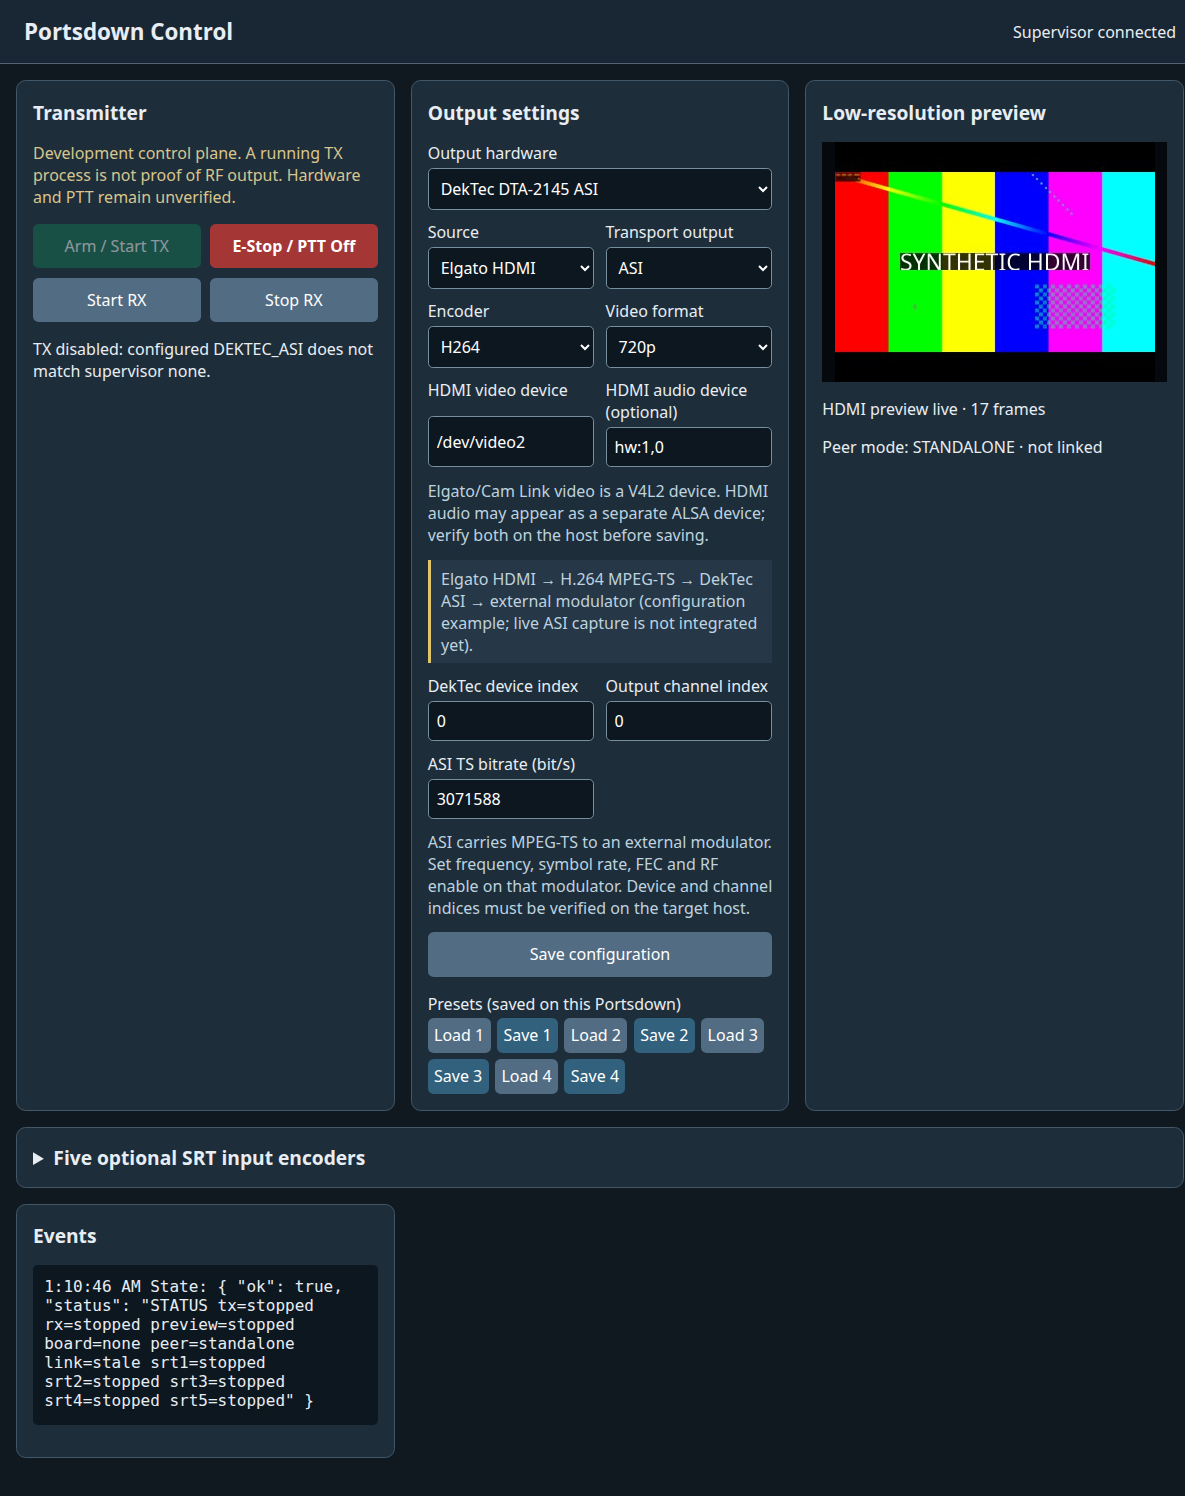
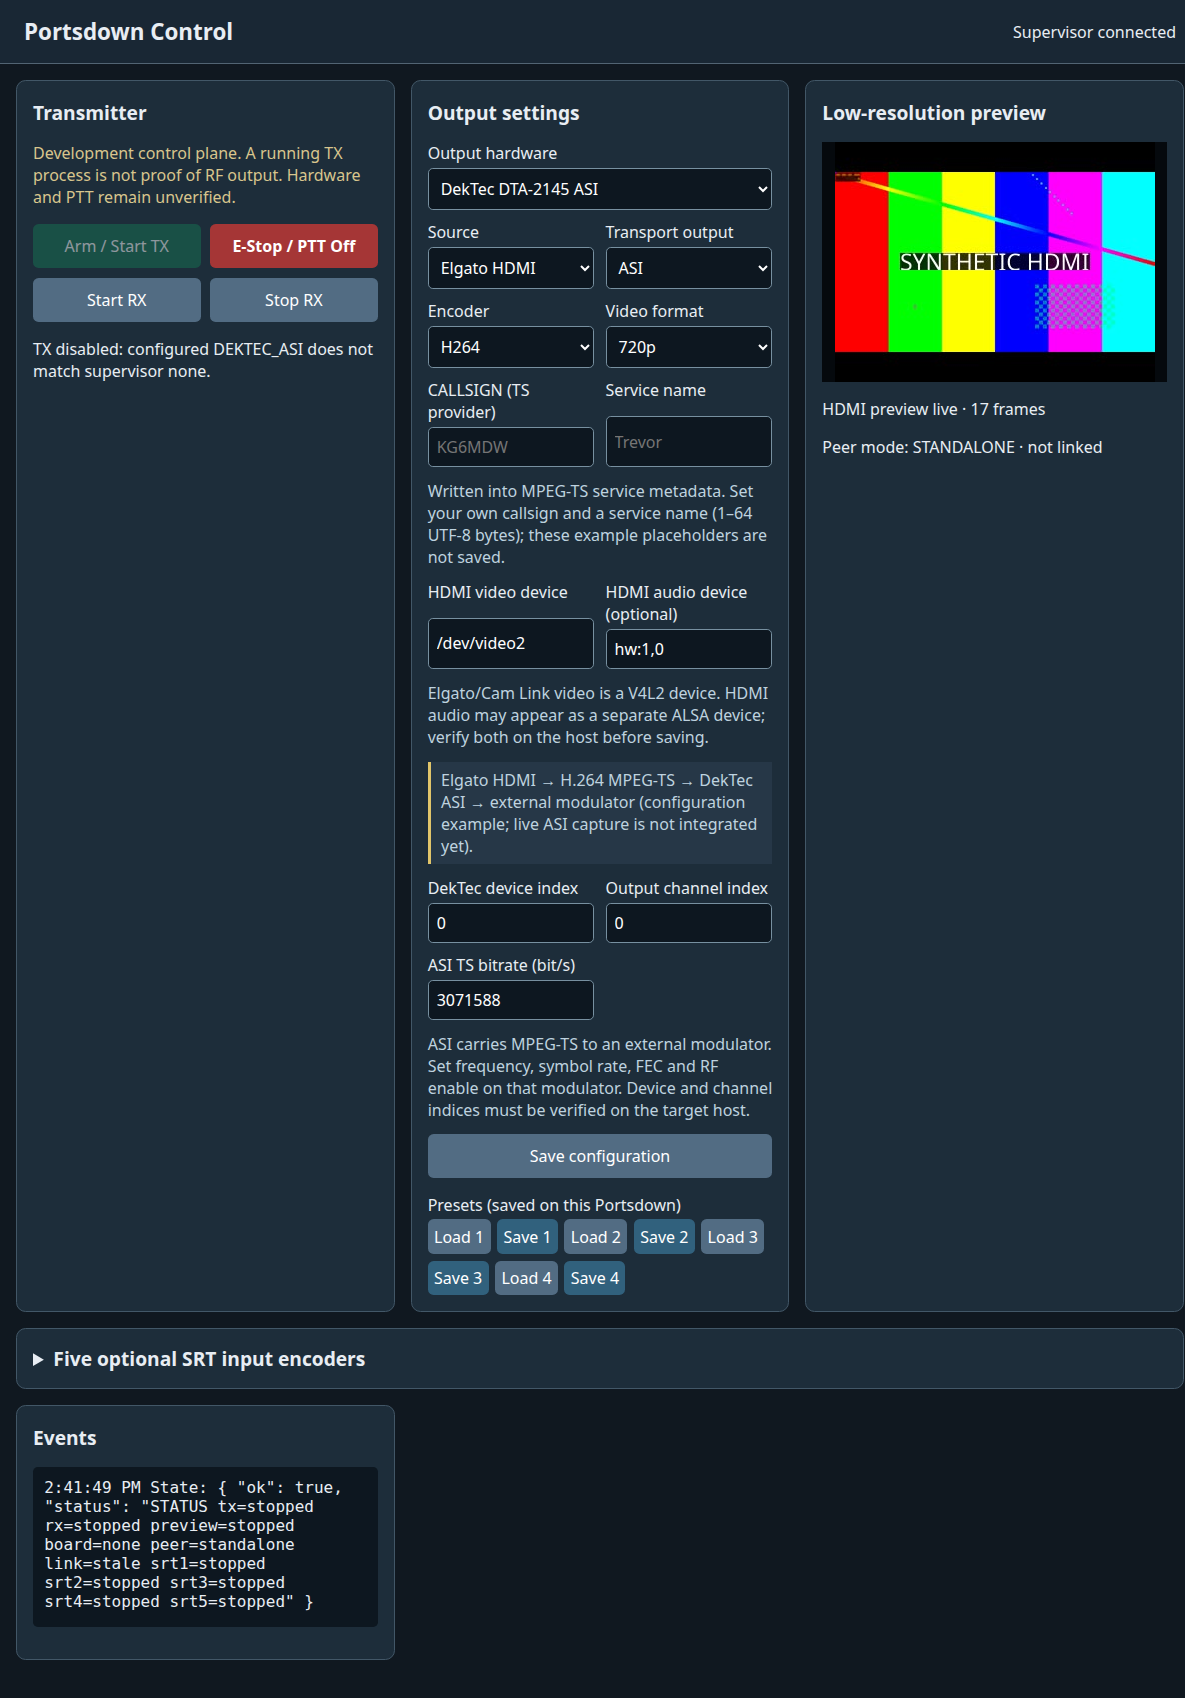
Expose TS service metadata in web control and enforce ASI file match

Changed region(s): [[0.0, 0.0, 0.9992, 0.984]]

diff --git a/www/app.js b/www/app.js
@@ -1,6 +1,6 @@
 'use strict';
 const $ = id => document.getElementById(id);
-const fields = ['modeoutput','modeinput','modulation','encoding','format','freqoutput','symbolrate','fec','explevel','plutopwr','limegain','asi_device','asi_channel','asi_bitrate','expresshdmidevice','expressaudiodevice'];
+const fields = ['modeoutput','modeinput','modulation','encoding','format','freqoutput','symbolrate','fec','explevel','plutopwr','limegain','asi_device','asi_channel','asi_bitrate','expresshdmidevice','expressaudiodevice','call','service_name'];
 const fecS = ['12','23','34','56','78'];
 const fecS2 = ['14','13','12','35','23','34','56','89','91'];
 let capabilities = {}, current = {};
@@ -78,6 +78,8 @@ function fill(config, updateCurrent=true) {
   choices('fec', (config.modulation==='ASI' ? [] : config.modulation==='S2QPSK' ? fecS2 : fecS).map(v => [v,v]), config.fec);
   for (const id of fields.filter(x => !['modeoutput','modeinput','modulation','encoding','format','fec'].includes(x)))
     $(id).value = config[id] ?? '';
+  if (!/^[A-Z0-9/]{3,20}$/.test($('call').value) || !/[0-9]/.test($('call').value))
+    $('call').value = ''; // Old generic values such as BATC are not a station callsign.
   refreshBoardFields();
 }
 async function reload() {
@@ -153,10 +155,19 @@ for (const [id,path] of Object.entries({
 })) $(id).addEventListener('click',()=>command(path));
 $('modeoutput').addEventListener('change',refreshMode);
 $('modeinput').addEventListener('change',refreshSourceFields);
+$('call').addEventListener('input', () => { $('call').value = $('call').value.toUpperCase(); });
+$('service_name').addEventListener('input', () => {
+  $('service_name').setCustomValidity(new TextEncoder().encode($('service_name').value).length > 64
+    ? 'Service name must be at most 64 UTF-8 bytes' : '');
+});
 $('encoding').addEventListener('change',refreshSourceFields);
 $('modulation').addEventListener('change',refreshFec);
 $('settings').addEventListener('submit',async event => {
   event.preventDefault();
+  $('call').value = $('call').value.trim().toUpperCase();
+  $('service_name').value = $('service_name').value.trim();
+  $('service_name').dispatchEvent(new Event('input'));
+  if (!$('settings').reportValidity()) return;
   const changed = Object.fromEntries(fields.map(id => [id,$(id).value]).filter(([id,value])=>(value!=='' || id==='expressaudiodevice') && value!==(current[id]??'')));
   try { await api('/api/config','POST',changed); log('Configuration saved'); await reload(); }
   catch (error) { log(`Save failed: ${error.message}`); }

diff --git a/www/index.html b/www/index.html
@@ -29,6 +29,9 @@
         <label><span id="modulation-label">Modulation</span><select id="modulation"></select></label>
         <label>Encoder<select id="encoding"></select></label>
         <label>Video format<select id="format"></select></label>
+        <label>CALLSIGN (TS provider)<input id="call" type="text" minlength="3" maxlength="20" pattern="[A-Z0-9/]*[0-9][A-Z0-9/]*" placeholder="KG6MDW" autocapitalize="characters" autocomplete="off" required></label>
+        <label>Service name<input id="service_name" type="text" maxlength="64" placeholder="Trevor" autocomplete="off" required></label>
+        <p class="hdmi-note">Written into MPEG-TS service metadata. Set your own callsign and a service name (1–64 UTF-8 bytes); these example placeholders are not saved.</p>
         <label class="hdmi-only" hidden>HDMI video device<input id="expresshdmidevice" type="text" placeholder="/dev/videoN" autocomplete="off"></label>
         <label class="hdmi-only" hidden>HDMI audio device (optional)<input id="expressaudiodevice" type="text" placeholder="hw:1,0" autocomplete="off"></label>
         <p class="hdmi-only hdmi-note" hidden>Elgato/Cam Link video is a V4L2 device. HDMI audio may appear as a separate ALSA device; verify both on the host before saving.</p>

diff --git a/tests/test_headless_control.py b/tests/test_headless_control.py
@@ -152,7 +152,7 @@ class UcodeTest(unittest.TestCase):
         self.addCleanup(self.tmp.cleanup)
         self.path = Path(self.tmp.name)
         self.config = self.path / "config.txt"
-        self.config.write_text("modeoutput=DATVEXPRESS\nmodulation=S2QPSK\nfreqoutput=437\nsymbolrate=333\nfec=12\n")
+        self.config.write_text("modeoutput=DATVEXPRESS\nmodulation=S2QPSK\nfreqoutput=437\nsymbolrate=333\nfec=12\ncall=KG6MDW\nservice_name=Trevor\n")
         self.sock = self.path / "run" / "tx.sock"
         with socket.socket() as probe:
             probe.bind(("127.0.0.1", 0)); self.port = probe.getsockname()[1]
@@ -165,6 +165,7 @@ class UcodeTest(unittest.TestCase):
         with socket.socket() as probe:
             probe.bind(("127.0.0.1", 0)); self.srt_preview_port = probe.getsockname()[1]
         env = os.environ | {"PORTSDOWN_RUN_DIR": str(self.sock.parent),
+                            "PORTSDOWN_DIR": str(ROOT), "PORTSDOWN_CONFIG": str(self.config),
                             "PORTSDOWN_SRT_EXEC": str(CONTROL / "srt-slot.sh"),
                             "PORTSDOWN_SRT_PORT_BASE": str(self.srt_port),
                             "PORTSDOWN_SRT_TS_PORT_BASE": str(self.ts_port),
@@ -223,6 +224,22 @@ class UcodeTest(unittest.TestCase):
         status, body = self.request("POST", "/api/config", {"modeoutput": "DVB-S2X"})
         self.assertEqual(status, 400)
         self.assertNotIn("DVB-S2X", self.config.read_text())
+
+    def test_service_metadata_validation_and_persistence(self):
+        for changes in ({"call": "BATC"}, {"call": "kg6mdw"},
+                        {"service_name": " "}, {"service_name": "A" * 65},
+                        {"service_name": "é" * 33},
+                        {"service_name": "bad\tname"}):
+            status, body = self.request("POST", "/api/config", changes)
+            self.assertEqual(status, 400, body)
+        status, body = self.request("POST", "/api/config",
+                                    {"call": "K6SOE", "service_name": "DATV test 720p"})
+        self.assertEqual(status, 200, body)
+        saved = json.loads(self.request("GET", "/api/config")[1])["config"]
+        self.assertEqual((saved["call"], saved["service_name"]),
+                         ("K6SOE", "DATV test 720p"))
+        self.assertEqual(self.request("POST", "/api/config",
+                                      {"service_name": "é" * 32})[0], 200)
 
     def test_asi_settings_do_not_claim_rf_modulation(self):
         settings = {"modeoutput": "DEKTEC_ASI", "modulation": "ASI",
@@ -381,6 +398,11 @@ class UcodeTest(unittest.TestCase):
                 receivers.append(receiver)
                 status, body = self.request("POST", f"/api/srt/{slot}/enable")
                 self.assertEqual(status, 200, body)
+            # Updating saved metadata restarts enabled listeners before
+            # callers arrive; otherwise they would retain the old TS labels.
+            status, body = self.request("POST", "/api/config",
+                                        {"service_name": "Trevor Live"})
+            self.assertEqual(status, 200, body)
             for slot, raster, fps in sources:
                 senders.append(subprocess.Popen([
                     "ffmpeg", "-hide_banner", "-nostdin", "-loglevel", "error", "-re",
@@ -404,6 +426,13 @@ class UcodeTest(unittest.TestCase):
                 self.assertEqual(json.loads(probe.stdout)["streams"][0],
                                  {"codec_name": "h264", "width": width, "height": height,
                                   "r_frame_rate": f"{fps}/1"}, raster)
+                service = subprocess.run([
+                    "ffprobe", "-v", "error", "-show_entries",
+                    "program_tags=service_provider,service_name", "-of", "json", str(capture),
+                ], capture_output=True, text=True, timeout=10, check=True)
+                tags = json.loads(service.stdout)["programs"][0]["tags"]
+                self.assertEqual(tags["service_provider"], "KG6MDW")
+                self.assertEqual(tags["service_name"], "Trevor Live")
             slots = json.loads(self.request("GET", "/api/srt")[1])["slots"]
             self.assertTrue(all(slot["live"] for slot in slots[:3]))
         finally:

diff --git a/tests/test_ts_service_metadata.py b/tests/test_ts_service_metadata.py
@@ -1,0 +1,76 @@
+#!/usr/bin/env python3
+"""Offline MPEG-TS metadata and ASI pass-through gate; never opens hardware."""
+
+import os
+from pathlib import Path
+import subprocess
+import sys
+import tempfile
+import unittest
+
+
+ROOT = Path(__file__).resolve().parents[1]
+sys.path.insert(0, str(ROOT / "scripts"))
+from ts_service_metadata import values  # noqa: E402
+
+
+class ServiceMetadataTest(unittest.TestCase):
+    def test_validation(self):
+        self.assertEqual(values({"call": "KG6MDW", "service_name": "Trevor"}),
+                         ("KG6MDW", "Trevor"))
+        for cfg in ({"call": "BATC", "service_name": "Trevor"},
+                    {"call": "kg6mdw", "service_name": "Trevor"},
+                    {"call": "KG6MDW", "service_name": " "},
+                    {"call": "KG6MDW", "service_name": "x" * 65}):
+            with self.assertRaises(ValueError):
+                values(cfg)
+
+    def test_asi_file_requires_matching_saved_service_metadata(self):
+        with tempfile.TemporaryDirectory(prefix="portsdown-asi-metadata-") as directory:
+            temp = Path(directory)
+            stream = temp / "source.ts"
+            subprocess.run([
+                "ffmpeg", "-hide_banner", "-loglevel", "error", "-f", "lavfi",
+                "-i", "testsrc2=size=320x240:rate=10", "-t", "1", "-c:v",
+                "mpeg2video", "-metadata", "service_provider=KG6MDW",
+                "-metadata", "service_name=Trevor", "-muxrate", "1000000",
+                "-f", "mpegts", str(stream),
+            ], check=True, capture_output=True, timeout=15)
+            config = temp / "config"
+            config.write_text("modeoutput=DEKTEC_ASI\nmodulation=ASI\nasi_device=0\n"
+                              "asi_channel=0\nasi_bitrate=1000000\ncall=KG6MDW\n"
+                              "service_name=Trevor\n")
+            fake_tsp = temp / "tsp"
+            fake_tsp.write_text('#!/bin/sh\nprintf "%s\\n" "$@" > "$TSP_ARGS_OUT"\n')
+            fake_tsp.chmod(0o755)
+            args_file = temp / "args"
+            env = os.environ | {
+                "PORTSDOWN_CONFIG": str(config), "PORTSDOWN_ASI_TS_FILE": str(stream),
+                "PORTSDOWN_BOARD": "dektec_asi", "TSP_ARGS_OUT": str(args_file),
+                "PATH": str(temp) + os.pathsep + os.environ["PATH"],
+            }
+            launcher = ROOT / "control/dektec-asi-file.sh"
+            good = subprocess.run([str(launcher)], env=env, capture_output=True,
+                                  text=True, timeout=15)
+            self.assertEqual(good.returncode, 0, good.stderr)
+            self.assertIn("dektec", args_file.read_text())
+            args_file.unlink()
+            config.write_text(config.read_text().replace("service_name=Trevor",
+                                                         "service_name=Different"))
+            bad = subprocess.run([str(launcher)], env=env, capture_output=True,
+                                 text=True, timeout=15)
+            self.assertNotEqual(bad.returncode, 0)
+            self.assertIn("metadata differs", bad.stderr)
+            self.assertFalse(args_file.exists(), "mismatch must not start ASI")
+            config.write_text(config.read_text().replace("service_name=Different",
+                                                         "service_name=Trevor").replace(
+                                                             "call=KG6MDW", "call=K6SOE"))
+            bad = subprocess.run([str(launcher)], env=env, capture_output=True,
+                                 text=True, timeout=15)
+            self.assertNotEqual(bad.returncode, 0)
+            self.assertIn("metadata differs", bad.stderr)
+            self.assertFalse(args_file.exists(), "provider mismatch must not start ASI")
+
+
+if __name__ == "__main__":
+    unittest.main()

diff --git a/scripts/srt_interlocked_tx.py b/scripts/srt_interlocked_tx.py
@@ -14,6 +14,7 @@ import signal
 import subprocess
 import sys
 import time
+from ts_service_metadata import ffmpeg_args as service_metadata_args
 
 
 PACKET = 188
@@ -107,6 +108,7 @@ def main():
     args = parser.parse_args()
     try:
         cfg = config(args.config)
+        metadata = service_metadata_args(cfg)
         args.port = args.port if args.port is not None else int(cfg.get("srtinport", "9000"))
         if not 1024 <= args.port <= 65535:
             parser.error("invalid SRT port")
@@ -163,7 +165,8 @@ def main():
               "-b:v", str(video_rate), "-maxrate:v", str(video_rate),
               "-bufsize:v", str(video_rate // 2), "-c:a", "aac", "-b:a", "48000",
               "-ac", "1", "-ar", "48000", "-mpegts_pmt_start_pid", str(PMT_PID),
-              "-streamid", f"0:{VIDEO_PID}", "-muxrate", str(muxrate), "-f", "mpegts", "pipe:1"]
+              "-streamid", f"0:{VIDEO_PID}", *metadata,
+              "-muxrate", str(muxrate), "-f", "mpegts", "pipe:1"]
     backend = [str(args.backend), "--input", "-", "--symbol-rate", str(symbol_rate), "--fec", fec]
     if not args.dry_run:
         backend += ["--tx", "--frequency", str(frequency)]

diff --git a/scripts/express_capture_tx.py b/scripts/express_capture_tx.py
@@ -18,6 +18,7 @@ import sys
 import time
 
 from srt_interlocked_tx import FEC as S2_FEC, config, release_legacy_express, stop_child, write_packet
+from ts_service_metadata import values as service_metadata_values
 
 STOP = False
 PACKET = 188
@@ -30,6 +31,7 @@ def request_stop(_signum, _frame):
 
 
 def capture_command(cfg, helper, muxrate, video_rate):
+    service_provider, service_name = service_metadata_values(cfg)
     mode = cfg.get("modeinput", "")
     fmt = cfg.get("format", "4:3")
     size = {"720p": "1280x720", "1080p": "1920x1080", "16:9": "854x480"}.get(fmt, "720x480")
@@ -40,7 +42,7 @@ def capture_command(cfg, helper, muxrate, video_rate):
             "--video-pid", cfg.get("pidvideo", "256"),
             "--audio-pid", cfg.get("pidaudio", "257"),
             "--service-id", cfg.get("serviceid", "1"),
-            "--service-name", cfg.get("call", "Portsdown"),
+            "--service-provider", service_provider, "--service-name", service_name,
             "--video-encoder", cfg.get("h264encoder", "auto")]
 
     if mode.startswith("CAM"):

diff --git a/tests/test_h264_ts_ffmpeg.py b/tests/test_h264_ts_ffmpeg.py
@@ -25,7 +25,8 @@ class H264TsTest(unittest.TestCase):
             str(ENCODER), "--source", "testsrc", "--output", str(output),
             "--standard", standard, "--video-bitrate", "800000",
             "--muxrate", "1200000", "--duration", "2",
-            "--pmt-pid", "4095", "--service-name", "NTSC Test",
+            "--pmt-pid", "4095", "--service-provider", "KG6MDW",
+            "--service-name", "NTSC Test",
         ]
         if audio:
             args += ["--audio-device", "testtone", "--audio-bitrate", "48000"]
@@ -83,6 +84,7 @@ class H264TsTest(unittest.TestCase):
         self.assertEqual(program["pmt_pid"], 4095)
         self.assertEqual(program["pcr_pid"], 4096)
         self.assertEqual(program["tags"]["service_name"], "NTSC Test")
+        self.assertEqual(program["tags"]["service_provider"], "KG6MDW")
         video, audio = program["streams"]
         self.assertEqual((video["codec_name"], video["width"], video["height"]),
                          ("h264", 720, 480))

diff --git a/scripts/ipts_interlocked_tx.py b/scripts/ipts_interlocked_tx.py
@@ -21,6 +21,7 @@ import time
 from express_capture_tx import S_FEC, dvbs_server, ptt_receive
 from ipts_preview_return import start_preview
 from srt_interlocked_tx import FEC as S2_FEC, config, release_legacy_express, stop_child, write_packet
+from ts_service_metadata import ffmpeg_args as service_metadata_args
 
 PACKET = 188
 STOP = False
@@ -70,6 +71,7 @@ def input_command(cfg, muxrate, pmt_pid, video_pid, input_port=None):
         command += ["-c", "copy"]
     command += [
                "-mpegts_pmt_start_pid", str(pmt_pid), "-streamid", f"0:{video_pid}",
+               *service_metadata_args(cfg),
                "-muxrate", str(muxrate), "-muxdelay", "0", "-muxpreload", "0",
                "-f", "mpegts", "pipe:1"]
     return command, transport, port

diff --git a/scripts/ts_service_metadata.py b/scripts/ts_service_metadata.py
@@ -1,0 +1,19 @@
+"""Validate service metadata shared by the modern MPEG-TS producers."""
+
+import re
+
+
+def values(cfg):
+    call = cfg.get("call", "")
+    name = cfg.get("service_name", "")
+    if not re.fullmatch(r"[A-Z0-9/]{3,20}", call) or not re.search(r"[0-9]", call):
+        raise ValueError("configure a CALLSIGN (3-20 uppercase letters, digits or /)")
+    if not name.strip() or len(name.encode("utf-8")) > 64 or not name.isprintable():
+        raise ValueError("configure a printable service_name (1-64 UTF-8 bytes)")
+    return call, name
+
+
+def ffmpeg_args(cfg):
+    call, name = values(cfg)
+    return ["-metadata", f"service_provider={call}",
+            "-metadata", f"service_name={name}"]

diff --git a/tests/test_ipts_interlock_offline.py b/tests/test_ipts_interlock_offline.py
@@ -35,6 +35,7 @@ class IPTSInterlockOfflineTest(unittest.TestCase):
             f"modulation={'S2QPSK' if s2 else 'DVB-S'}\n"
             f"fec={'12' if s2 else '1'}\n"
             "symbolrate=1200\nfreqoutput=437\npidpmt=4095\npidvideo=256\n"
+            "call=KG6MDW\nservice_name=Trevor\n"
             f"udpinport={self.port}\niptransport={transport}\n"
         )
         return path

diff --git a/doc/headless-ucode-control.md b/doc/headless-ucode-control.md
@@ -25,7 +25,8 @@ enumerated hardware. SRT port numbers shown are temporary test ports.
 This **configuration example** selects Elgato HDMI video (`/dev/video2`),
 optional ALSA audio (`hw:1,0`), H.264 at 720p, and DekTec ASI output at
 3,071,588 bit/s. The device names and indices are illustrative, not detected
-on the current host. The screenshot's 320×240 preview is a **synthetic test
+on the current host. `KG6MDW` and `Trevor` are unsaved placeholder examples
+in the screenshot; the operator must enter their own values. The screenshot's 320×240 preview is a **synthetic test
 feed**, not an Elgato capture or physical ASI test. When HDMI is selected,
 the GUI shows the separate V4L2 and ALSA fields and live preview when frames
 arrive; it falls back to **NO HDMI INPUT** when they stop. The five SRT slots
@@ -58,6 +59,17 @@ capture, audio, and RF remain unverified.
 - `www/`: no-framework responsive dashboard, four server-side presets,
   320×240 preview with a **NO IP INPUT** placeholder, and an E-Stop button.
   An optional remote-slave preview URL can be configured separately.
+- The Output settings form asks for **CALLSIGN** and **Service name**. The
+  callsign becomes MPEG-TS `service_provider`; the service name becomes
+  MPEG-TS `service_name`. `KG6MDW` / `Trevor` are example placeholders, **not**
+  saved defaults. Enter the actual transmitting station's callsign (3–20
+  uppercase letters, digits, or `/`, with a digit) and a printable service
+  name of 1–64 UTF-8 bytes. These settings are saved in
+  `portsdown_config.txt`, included in presets and peer configuration, and
+  passed to FFmpeg on the current SRT/IPTS and local Express TS-producing
+  paths. An older config without both values must be completed in the GUI
+  before those new paths will generate TS. This metadata is not itself a
+  substitute for any required on-air station identification.
 - Five independently enabled SRT source slots (`control/srt-slot.sh`) each
   accept MPEG-TS over SRT, encode live video/audio to a local source-resolution
   H.264/AAC MPEG-TS output, and provide a 320×240 aspect-preserving MJPEG
@@ -73,6 +85,12 @@ capture, audio, and RF remain unverified.
   live encoder or an RF safety interlock. `PORTSDOWN_BOARD=dektec_asi` must
   match `modeoutput=DEKTEC_ASI`, and the supervisor still requires an
   independently verified safe-off hook before it will start TX.
+  The ASI file launcher passes existing TS packets through unchanged. It
+  checks every detected program's `service_provider` and `service_name`
+  against the saved GUI settings and **refuses playout on a mismatch**;
+  changing the GUI fields does not rewrite an existing file. Generate or
+  remultiplex the file with matching metadata first. Offline validation uses
+  a fake `tsp`, not a DekTec card.
 - `systemd/`: uninstalled service templates. `portsdown-tx-super.service`
   uses `ExecStopPost` as a second attempt to invoke the safe-off hook if the
   supervisor dies while systemd is alive.
@@ -109,6 +127,10 @@ an explicit private-interface address.
   drive all their source/encoder/RF paths. Existing Python interlock scripts
   are still in the legacy transmitter; this branch has no Python/Node runtime
   in the **new** control plane, but is not yet a Python-free Portsdown tree.
+  Legacy `avc2ts` and unchanged pass-through tools may preserve their original
+  service descriptors rather than use the new GUI fields. Inspect their TS
+  with `ffprobe -show_programs` before sending it to a modulator; the ASI
+  launcher rejects a mismatch but other legacy outputs are not yet gated.
 - A native DVB-S2 QPSK experimental DATV-Express backend exists; no
   DVB-S2X backend was found in this branch. DVB-S2X is therefore **not**
   offered by the capability map.
